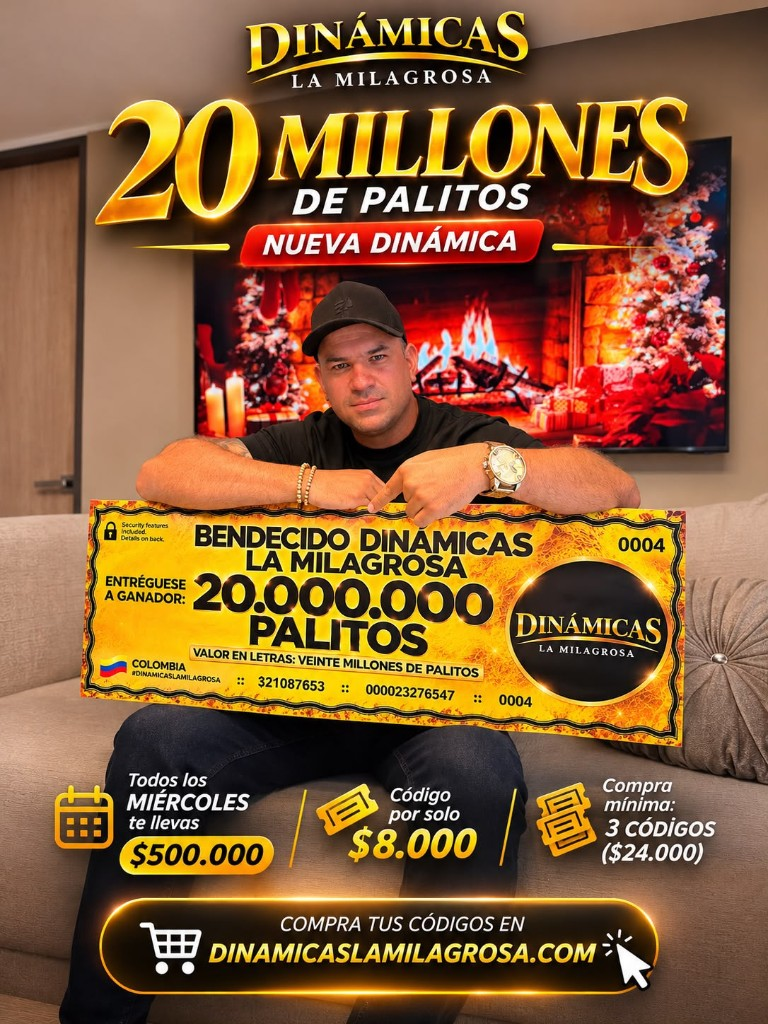
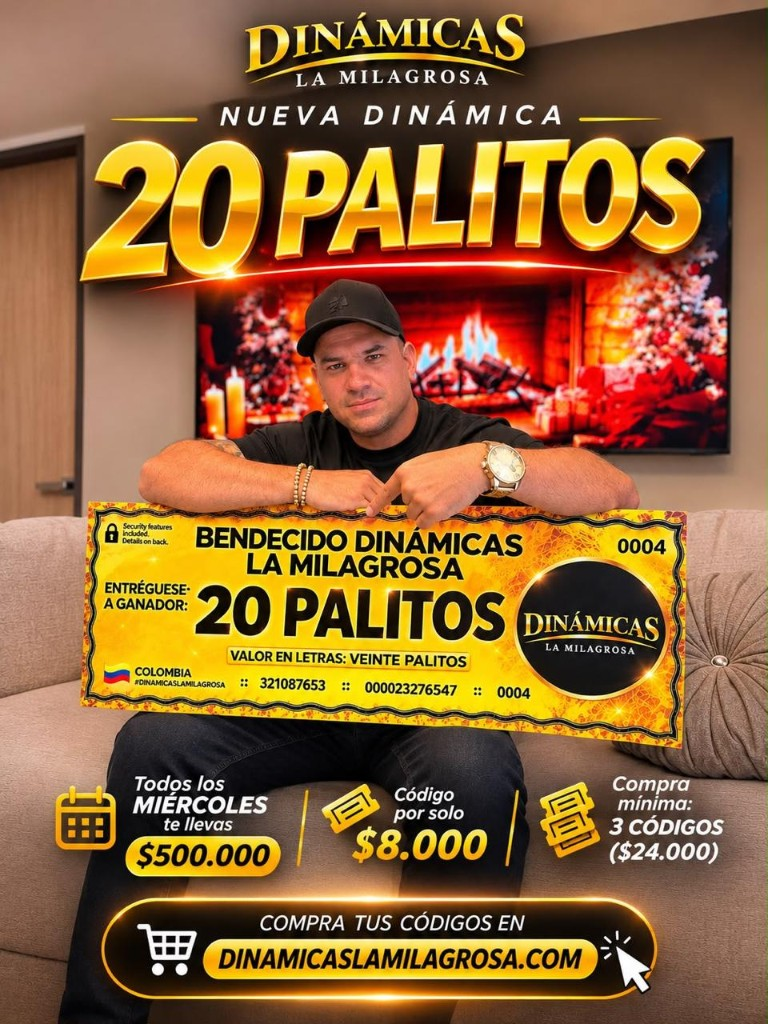
se actualiza

diff --git a/assets/css/app.css b/assets/css/app.css
@@ -4651,6 +4651,95 @@ body.landing .cr-resenas__score strong {
     color: var(--cr-dark);
 }
 
+body.landing .cr-comunidad {
+    display: flex;
+    justify-content: center;
+    margin: .4rem auto 1.6rem;
+    padding: 0 .75rem;
+}
+
+body.landing .cr-comunidad__btn {
+    position: relative;
+    isolation: isolate;
+    display: inline-flex;
+    align-items: center;
+    gap: .85rem;
+    max-width: 100%;
+    padding: .85rem 1.35rem .85rem .85rem;
+    border-radius: 999px;
+    text-decoration: none;
+    color: #1a1404;
+    background: linear-gradient(180deg, #ffe08a 0%, #f2b500 48%, #d89a00 100%);
+    border: 1px solid rgba(255, 244, 204, .7);
+    box-shadow:
+        0 0 0 1px rgba(242, 181, 0, .35),
+        0 10px 28px rgba(242, 181, 0, .28);
+    overflow: hidden;
+    animation: crComunidadGlow 2.8s ease-in-out infinite;
+}
+
+body.landing .cr-comunidad__btn::after {
+    content: "";
+    position: absolute;
+    inset: 0;
+    background: linear-gradient(110deg, transparent 32%, rgba(255, 255, 255, .72) 48%, transparent 64%);
+    transform: translateX(-130%);
+    animation: crComunidadShine 3.4s ease-in-out infinite;
+}
+
+body.landing .cr-comunidad__icon,
+body.landing .cr-comunidad__copy {
+    position: relative;
+    z-index: 1;
+}
+
+body.landing .cr-comunidad__icon {
+    width: 2.4rem;
+    height: 2.4rem;
+    border-radius: 50%;
+    display: grid;
+    place-items: center;
+    flex-shrink: 0;
+    background: #111;
+    color: #25d366;
+    font-size: 1.25rem;
+}
+
+body.landing .cr-comunidad__copy {
+    display: flex;
+    flex-direction: column;
+    align-items: flex-start;
+    line-height: 1.15;
+    text-align: left;
+}
+
+body.landing .cr-comunidad__copy strong {
+    font-size: 1rem;
+    font-weight: 800;
+}
+
+body.landing .cr-comunidad__copy small {
+    margin-top: .15rem;
+    font-size: .78rem;
+    font-weight: 600;
+    color: rgba(26, 20, 4, .78);
+}
+
+body.landing .cr-comunidad__btn:hover {
+    color: #1a1404;
+    transform: translateY(-1px);
+}
+
+@keyframes crComunidadGlow {
+    0%, 100% { box-shadow: 0 0 0 1px rgba(242, 181, 0, .35), 0 10px 24px rgba(242, 181, 0, .22); }
+    50% { box-shadow: 0 0 0 1px rgba(255, 236, 170, .8), 0 12px 34px rgba(242, 181, 0, .42); }
+}
+
+@keyframes crComunidadShine {
+    0%, 58% { transform: translateX(-130%); }
+    100% { transform: translateX(130%); }
+}
+
 body.landing .cr-resenas-slider {
     max-width: 1100px;
     margin: 0 auto;

diff --git a/assets/js/frontend.js b/assets/js/frontend.js
@@ -1404,8 +1404,8 @@ function packagePricingConfig() {
     });
 
     if (!Object.keys(packages).length) {
-        [3, 5, 8, 10, 15, 20].forEach((qty, i) => {
-            const prices = [24000, 40000, 64000, 70000, 105000, 130000];
+        [2, 3, 5, 8, 10, 15, 20].forEach((qty, i) => {
+            const prices = [16000, 24000, 40000, 64000, 70000, 105000, 130000];
             packages[qty] = prices[i];
         });
     }
@@ -1417,7 +1417,7 @@ function packagePricingConfig() {
         bulkThreshold: readPricingInt(p?.bulk_threshold ?? 10, 10),
         bulk2UnitPrice: readPricingInt(p?.bulk2_unit_price ?? 6500, 6500),
         bulk2Threshold: readPricingInt(p?.bulk2_threshold ?? 20, 20),
-        minQuantity: readPricingInt(p?.min_quantity ?? 3, 3),
+        minQuantity: readPricingInt(p?.min_quantity ?? 2, 2),
         packages,
     };
 }

diff --git a/assets/js/vender.js b/assets/js/vender.js
@@ -82,7 +82,7 @@ function packagePricingConfigVenta() {
         bulkThreshold: readPricingInt(p.bulk_threshold, 10),
         bulk2UnitPrice: readPricingInt(p.bulk2_unit_price, 6500),
         bulk2Threshold: readPricingInt(p.bulk2_threshold, 20),
-        minQuantity: readPricingInt(p.min_quantity, 3),
+        minQuantity: readPricingInt(p.min_quantity, 2),
         packages,
     };
 }

diff --git a/includes/landing/hero.php b/includes/landing/hero.php
@@ -16,13 +16,10 @@ $heroBrand = $landingBrandName ?? 'Dinámicas La Milagrosa';
                     <div class="splide__track">
                         <ul class="splide__list">
                             <li class="splide__slide">
-                                <img class="cr-hero-cover" src="<?= htmlspecialchars(ASSETS_URL . '/images/dinamica-navidena.jpg', ENT_QUOTES, 'UTF-8') ?>?v=2" alt="<?= htmlspecialchars($heroBrand . ' — 4.ª Dinámica Navideña. Premio $20.000.000. Juegan el 19 de diciembre con la de Boyacá. Cada miércoles $500.000 con la de Manizales. Puesto $8.000. Mínimo 3 códigos. Desde 10 códigos, $7.000 cada uno.', ENT_QUOTES, 'UTF-8') ?>" width="768" height="1024">
+                                <img class="cr-hero-cover" src="<?= htmlspecialchars(ASSETS_URL . '/images/portada-palitos-sala.jpg', ENT_QUOTES, 'UTF-8') ?>?v=3" alt="<?= htmlspecialchars($heroBrand . ' — 20 palitos. Cada miércoles $500.000. Código por $8.000. Compra mínima 2 códigos.', ENT_QUOTES, 'UTF-8') ?>" width="768" height="1024">
                             </li>
                             <li class="splide__slide">
-                                <img class="cr-hero-cover" src="<?= htmlspecialchars(ASSETS_URL . '/images/portada-palitos-sala.jpg', ENT_QUOTES, 'UTF-8') ?>?v=1" alt="<?= htmlspecialchars($heroBrand . ' — 20 millones de palitos. Cada miércoles $500.000. Código por $8.000. Compra mínima 3 códigos.', ENT_QUOTES, 'UTF-8') ?>" width="768" height="1024">
-                            </li>
-                            <li class="splide__slide">
-                                <img class="cr-hero-cover" src="<?= htmlspecialchars(ASSETS_URL . '/images/portada-palitos-terraza.jpg', ENT_QUOTES, 'UTF-8') ?>?v=1" alt="<?= htmlspecialchars($heroBrand . ' — 20 millones de palitos.', ENT_QUOTES, 'UTF-8') ?>" width="768" height="1024">
+                                <img class="cr-hero-cover" src="<?= htmlspecialchars(ASSETS_URL . '/images/portada-palitos-terraza.jpg', ENT_QUOTES, 'UTF-8') ?>?v=3" alt="<?= htmlspecialchars($heroBrand . ' — 20.000.000 palitos. Cada miércoles $500.000. Código por $8.000. Compra mínima 2 códigos.', ENT_QUOTES, 'UTF-8') ?>" width="768" height="1024">
                             </li>
                         </ul>
                     </div>

diff --git a/includes/pricing-packages.php b/includes/pricing-packages.php
@@ -4,13 +4,14 @@ declare(strict_types=1);
 /**
  * Paquetes — Dinámica Navideña (4.º sorteo · 4 cifras).
  * Base $8.000 c/u · desde 10: $7.000 · desde 20: $6.500.
- * Mínimo 3 números.
+ * Mínimo 2 códigos.
  *
  * @return array<int, int> cantidad => total COP
  */
 function cs_package_prices(): array
 {
     return [
+        2 => 16000,
         3 => 24000,
         5 => 40000,
         8 => 64000,
@@ -49,7 +50,7 @@ function cs_package_bulk2_threshold(): int
 
 function cs_package_min_quantity(): int
 {
-    return 3;
+    return 2;
 }
 
 function cs_package_pricing_enabled(): bool
@@ -116,6 +117,7 @@ function cs_package_grid_items(): array
 {
     $unit = cs_package_unit_price();
     $items = [
+        ['id' => 'paq2', 'qty' => 2, 'price' => 16000, 'badge' => null, 'badge_slug' => null],
         ['id' => 'paq3', 'qty' => 3, 'price' => 24000, 'badge' => null, 'badge_slug' => null],
         ['id' => 'paq5', 'qty' => 5, 'price' => 40000, 'badge' => null, 'badge_slug' => null],
         ['id' => 'paq8', 'qty' => 8, 'price' => 64000, 'badge' => null, 'badge_slug' => null],

diff --git a/includes/landing/ganadores.php b/includes/landing/ganadores.php
@@ -202,6 +202,16 @@ $ganadores = [
             </div>
         </div>
 
+        <div class="cr-comunidad">
+            <a class="cr-comunidad__btn" href="https://chat.whatsapp.com/GMyvIbj5fNbHNsremVNgAB?s=sh&amp;p=i&amp;mlu=4&amp;ilr=4&amp;iam=2" target="_blank" rel="noopener noreferrer">
+                <span class="cr-comunidad__icon" aria-hidden="true"><i class="ti ti-brand-whatsapp"></i></span>
+                <span class="cr-comunidad__copy">
+                    <strong>Únete a nuestra comunidad</strong>
+                    <small>Únete a nuestras dinámicas diarias</small>
+                </span>
+            </a>
+        </div>
+
         <div class="cr-resenas__videos">
             <h3 class="cr-resenas__videos-title">Ganadores</h3>
             <div id="crVideosSlider" class="splide cr-videos-slider" aria-label="Videos de ganadores">

diff --git a/includes/landing/head.php b/includes/landing/head.php
@@ -21,7 +21,7 @@
     <link rel="stylesheet" href="https://cdn.jsdelivr.net/npm/@tabler/icons-webfont@latest/tabler-icons.min.css" crossorigin="anonymous">
     <link href="https://cdn.jsdelivr.net/npm/@splidejs/splide@4.1.4/dist/css/splide.min.css" rel="stylesheet" crossorigin="anonymous">
     <link rel="stylesheet" href="https://cdn.jsdelivr.net/npm/toastify-js/src/toastify.min.css" crossorigin="anonymous">
-    <link rel="stylesheet" href="<?= htmlspecialchars(ASSETS_URL . '/css/app.css', ENT_QUOTES, 'UTF-8') ?>?v=132">
+    <link rel="stylesheet" href="<?= htmlspecialchars(ASSETS_URL . '/css/app.css', ENT_QUOTES, 'UTF-8') ?>?v=133">
 
     <?php cs_meta_pixel_head(); ?>
 </head>

diff --git a/includes/landing/scripts.php b/includes/landing/scripts.php
@@ -11,5 +11,5 @@
 <script src="<?= htmlspecialchars(ASSETS_URL . '/js/settings.js', ENT_QUOTES, 'UTF-8') ?>?v=27"></script>
 <script src="<?= htmlspecialchars(ASSETS_URL . '/js/cr-grilla-numeros.js', ENT_QUOTES, 'UTF-8') ?>?v=10"></script>
 <script src="<?= htmlspecialchars(ASSETS_URL . '/js/phone-co.js', ENT_QUOTES, 'UTF-8') ?>?v=1"></script>
-<script src="<?= htmlspecialchars(ASSETS_URL . '/js/frontend.js', ENT_QUOTES, 'UTF-8') ?>?v=126"></script>
+<script src="<?= htmlspecialchars(ASSETS_URL . '/js/frontend.js', ENT_QUOTES, 'UTF-8') ?>?v=127"></script>
 <script src="<?= htmlspecialchars(ASSETS_URL . '/js/buscarTickets.js', ENT_QUOTES, 'UTF-8') ?>?v=7"></script>

diff --git a/terminos.php b/terminos.php
@@ -38,7 +38,7 @@ include $landingDir . '/navbar.php';
             <h2>2. Cómo funciona</h2>
             <p>
                 Eliges un paquete, pagas el valor publicado y, cuando confirmamos tu pago,
-                quedan asignados tus códigos. La compra mínima es de 3 códigos.
+                quedan asignados tus códigos. La compra mínima es de 2 códigos.
                 El premio de $20.000.000 juega el <strong>19 de diciembre</strong> con la lotería de Boyacá.
                 Cada miércoles se juegan $500.000 con la lotería de Manizales.
             </p>

diff --git a/front/vender.php b/front/vender.php
@@ -255,7 +255,7 @@ $extra_js = '
 <script src="' . ASSETS_URL . '/js/departamentos-ciudades.js?v=1"></script>
 <script src="' . ASSETS_URL . '/js/cr-grilla-numeros.js?v=10"></script>
 <script src="' . ASSETS_URL . '/js/phone-co.js?v=1"></script>
-<script src="' . ASSETS_URL . '/js/vender.js?v=33"></script>
+<script src="' . ASSETS_URL . '/js/vender.js?v=34"></script>
 ';
 include_once ROOT_PATH . "/includes/footer.php";
 ?>
